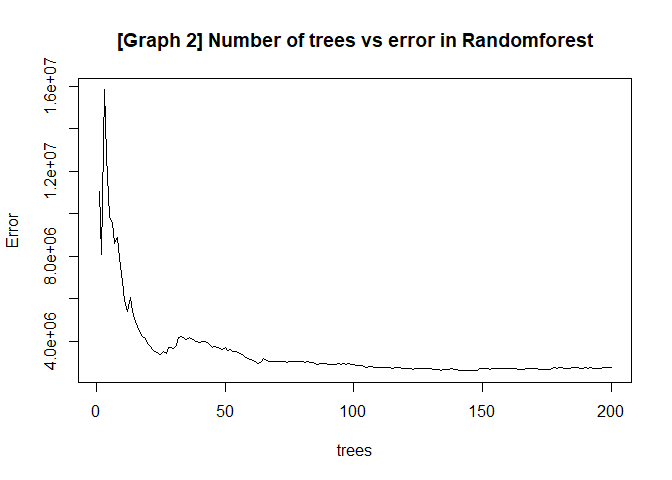
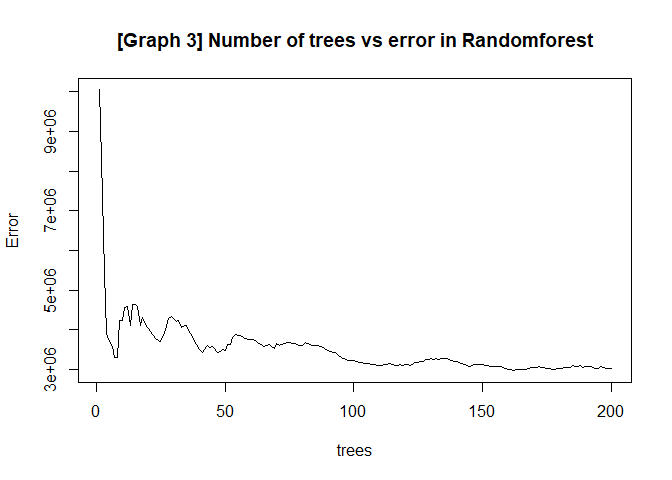
revised

diff --git a/Final_rmd-option1-.md b/Final_rmd-option1-.md
@@ -47,6 +47,8 @@ treatment is the trend (T) only. So, if we assume that T is the same for
 both states, we can decrease T, that was measured from the control
 state, from T + E in order to isolate the causal effect E.
 
+![](https://raw.githubusercontent.com/bmagalhaes/ECO395M-Final-Project/master/4.0-table1.png)
+
 This assumption is not testable because we don’t know what would’ve
 happened to the treatment state had it not been treated. But what if we
 could predict what would have happened to the treated state in this
@@ -129,7 +131,7 @@ First, we fit a lasso regression. From the baseline model we used in
 diff-in-diff analysis, we added one more variable - ‘crack’, hoping it
 can enhance our model’s predictive power, and consdiered all the
 interactions. Running the lasso regression model, the path plot is shown
-on the diagram below.
+on \[Graph 2\].
 
     ## bmprison ~ (crack + alcohol + income + ur + poverty + black + 
     ##     perc1519 + aidscapita + year_fixed + statefip)^2
@@ -150,12 +152,12 @@ selection model, it turned out to be 408.5
 
 After this, we fit a randomforest model and also did K-fold cross
 validation with our new baseline model we used in our lasso regression
-above. We started with 200 trees and as \[Graph 2\] shows 200 is enough
+above. We started with 200 trees and as \[Graph 3\] shows 200 is enough
 to reduce our errors.
 
 ![](Final_rmd-option1-_files/figure-markdown_strict/4.3.4-1.png)
 
-The K-fold validation result shows that the RMSE is 1656.5 which is
+The K-fold validation result shows that the RMSE is 1645.31 which is
 about 4 times larger than the RMSE of lasso regression.
 
 #### Boosting
@@ -163,7 +165,7 @@ about 4 times larger than the RMSE of lasso regression.
 Lastly, we fit a boosting model with the same baseline model and did
 K-fold validation as we did above.
 
-The result of our K-fold cross validation shows that the RMSE is 857.35
+The result of our K-fold cross validation shows that the RMSE is 815.29
 which is lower than the randomforest model but still higher than the
 lasso regression. \[Table 3\] shows that the lasso regression has the
 best predictive power among all the models that we tested.
@@ -192,13 +194,13 @@ Boosting
 RMSE
 </td>
 <td style="text-align:left;">
-408.48
+408.60
 </td>
 <td style="text-align:left;">
-1656.50
+1645.31
 </td>
 <td style="text-align:left;">
-857.35
+815.29
 </td>
 </tr>
 </tbody>
